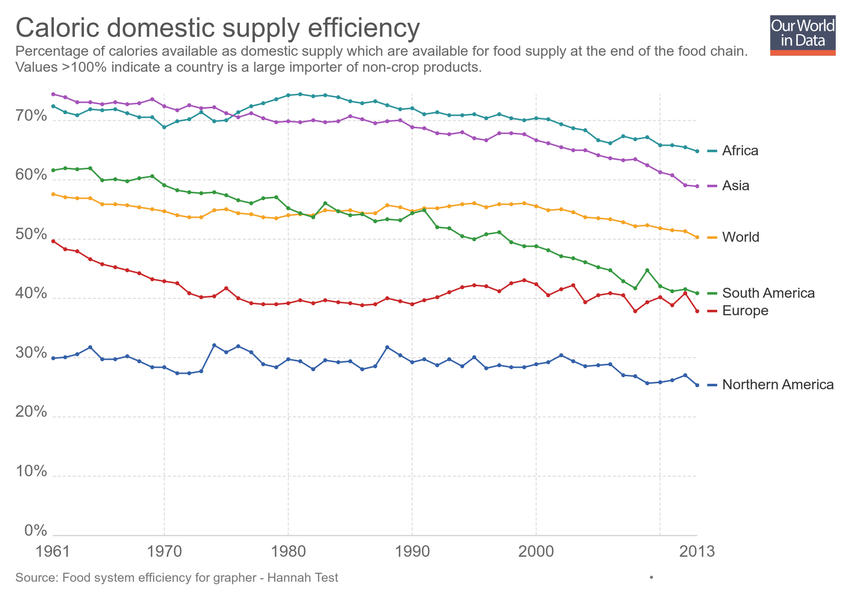
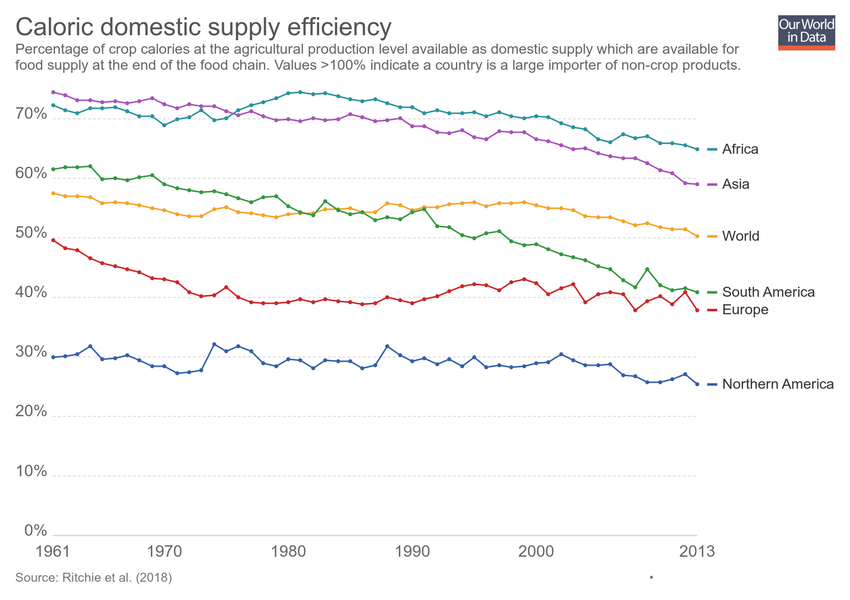
Updating chart caloric-domestic-supply-efficiency

diff --git a/grapher/caloric-domestic-supply-efficiency.html b/grapher/caloric-domestic-supply-efficiency.html
@@ -1,4 +1,4 @@
-<!doctype html><html><head><meta name="viewport" content="width=device-width, initial-scale=1" /><title>Caloric domestic supply efficiency - Our World in Data</title><meta name="description" content="Percentage of calories available as domestic supply which are available for food supply at the end of the food chain. Values &gt;100% indicate a country is a large importer of non-crop products." /><link rel="canonical" href="https://ourworldindata.org/grapher/caloric-domestic-supply-efficiency" /><meta property="fb:app_id" content="1149943818390250" /><meta property="og:url" content="https://ourworldindata.org/grapher/caloric-domestic-supply-efficiency" /><meta property="og:title" content="Caloric domestic supply efficiency" /><meta property="og:description" content="Percentage of calories available as domestic supply which are available for food supply at the end of the food chain. Values &gt;100% indicate a country is a large importer of non-crop products." /><meta property="og:image" content="https://ourworldindata.org/grapher/exports/caloric-domestic-supply-efficiency.png?v=1" /><meta property="og:image:width" content="850" /><meta property="og:image:height" content="600" /><meta property="og:site_name" content="Our World in Data" /><meta name="twitter:card" content="summary_large_image" /><meta name="twitter:site" content="@OurWorldInData" /><meta name="twitter:creator" content="@OurWorldInData" /><meta name="twitter:title" content="Caloric domestic supply efficiency" /><meta name="twitter:description" content="Percentage of calories available as domestic supply which are available for food supply at the end of the food chain. Values &gt;100% indicate a country is a large importer of non-crop products." /><meta name="twitter:image" content="https://ourworldindata.org/grapher/exports/caloric-domestic-supply-efficiency.png?v=1" /><style>
+<!doctype html><html><head><meta name="viewport" content="width=device-width, initial-scale=1" /><title>Caloric domestic supply efficiency - Our World in Data</title><meta name="description" content="Percentage of crop calories at the agricultural production level available as domestic supply which are available for food supply at the end of the food chain. Values &gt;100% indicate a country is a large importer of non-crop products." /><link rel="canonical" href="https://ourworldindata.org/grapher/caloric-domestic-supply-efficiency" /><meta property="fb:app_id" content="1149943818390250" /><meta property="og:url" content="https://ourworldindata.org/grapher/caloric-domestic-supply-efficiency" /><meta property="og:title" content="Caloric domestic supply efficiency" /><meta property="og:description" content="Percentage of crop calories at the agricultural production level available as domestic supply which are available for food supply at the end of the food chain. Values &gt;100% indicate a country is a large importer of non-crop products." /><meta property="og:image" content="https://ourworldindata.org/grapher/exports/caloric-domestic-supply-efficiency.png?v=2" /><meta property="og:image:width" content="850" /><meta property="og:image:height" content="600" /><meta property="og:site_name" content="Our World in Data" /><meta name="twitter:card" content="summary_large_image" /><meta name="twitter:site" content="@OurWorldInData" /><meta name="twitter:creator" content="@OurWorldInData" /><meta name="twitter:title" content="Caloric domestic supply efficiency" /><meta name="twitter:description" content="Percentage of crop calories at the agricultural production level available as domestic supply which are available for food supply at the end of the food chain. Values &gt;100% indicate a country is a large importer of non-crop products." /><meta name="twitter:image" content="https://ourworldindata.org/grapher/exports/caloric-domestic-supply-efficiency.png?v=2" /><style>
         html, body {
             height: 100%;
             margin: 0;
@@ -20,8 +20,8 @@
         }
     </style><noscript><style>
                     figure { display: none !important; }
-                </style></noscript><link rel="stylesheet" href="https://ourworldindata.org/grapher/assets/commons.bundle.019a92548339820130b6.css" /><link rel="preload" href="/grapher/data/variables/42574.json?v=1" as="fetch" crossorigin /></head><body class="singleChart"><figure data-grapher-src="/grapher/caloric-domestic-supply-efficiency"></figure><noscript id="fallback"><img src="/grapher/exports/caloric-domestic-supply-efficiency.svg" /><p>Interactive visualization requires JavaScript</p></noscript><script src="https://cdn.polyfill.io/v2/polyfill.min.js?features=es6,fetch"></script><script src="https://ourworldindata.org/grapher/assets/commons.bundle.019a92548339820130b6.js"></script><script src="https://ourworldindata.org/grapher/assets/charts.bundle.dcf65b68eddaba4c6a58.js"></script><script>
-        var jsonConfig = {"id":1429,"map":{"projection":"World","targetYear":2013,"variableId":42574,"legendStepSize":20,"baseColorScheme":"PuBu","isManualBuckets":true,"colorSchemeLabels":[],"colorSchemeValues":[10,20,30,40,50,60,70,80,90,100,170],"defaultProjection":"World","colorSchemeMinValue":0,"customNumericColors":[],"customCategoryColors":{},"customCategoryLabels":{},"customHiddenCategories":{}},"tab":"chart","slug":"caloric-domestic-supply-efficiency","type":"LineChart","title":"Caloric domestic supply efficiency","xAxis":{"scaleType":"linear"},"yAxis":{"min":0,"scaleType":"linear"},"version":1,"subtitle":"Percentage of calories available as domestic supply which are available for food supply at the end of the food chain. Values >100% indicate a country is a large importer of non-crop products.","hasMapTab":true,"originUrl":"","stackMode":"absolute","dimensions":[{"id":9171,"order":0,"chartId":1429,"display":{"shortUnit":"%"},"property":"y","targetYear":null,"variableId":42574}],"isAutoSlug":true,"hasChartTab":true,"isPublished":true,"selectedData":[{"index":0,"entityId":273},{"index":0,"entityId":275},{"index":0,"entityId":276},{"index":0,"entityId":355},{"index":0,"entityId":450},{"index":0,"entityId":295}],"internalNotes":"TEST FOR HANNAH - Please don't share","addCountryMode":"add-country"};
+                </style></noscript><link rel="stylesheet" href="https://ourworldindata.org/grapher/assets/commons.bundle.019a92548339820130b6.css" /><link rel="preload" href="/grapher/data/variables/42574.json?v=2" as="fetch" crossorigin /></head><body class="singleChart"><figure data-grapher-src="/grapher/caloric-domestic-supply-efficiency"></figure><noscript id="fallback"><img src="/grapher/exports/caloric-domestic-supply-efficiency.svg" /><p>Interactive visualization requires JavaScript</p></noscript><script src="https://cdn.polyfill.io/v2/polyfill.min.js?features=es6,fetch"></script><script src="https://ourworldindata.org/grapher/assets/commons.bundle.019a92548339820130b6.js"></script><script src="https://ourworldindata.org/grapher/assets/charts.bundle.dcf65b68eddaba4c6a58.js"></script><script>
+        var jsonConfig = {"id":1429,"map":{"projection":"World","targetYear":2013,"variableId":42574,"baseColorScheme":"PuBu","isManualBuckets":true,"colorSchemeLabels":[],"colorSchemeValues":[10,20,30,40,50,60,70,80,90,100,170],"colorSchemeMinValue":0,"customNumericColors":[],"customCategoryColors":{},"customCategoryLabels":{},"customHiddenCategories":{}},"tab":"chart","slug":"caloric-domestic-supply-efficiency","type":"LineChart","title":"Caloric domestic supply efficiency","xAxis":{"scaleType":"linear"},"yAxis":{"min":0,"scaleType":"linear"},"version":2,"subtitle":"Percentage of crop calories at the agricultural production level available as domestic supply which are available for food supply at the end of the food chain. Values >100% indicate a country is a large importer of non-crop products.","hasMapTab":true,"originUrl":"","stackMode":"absolute","dimensions":[{"display":{"shortUnit":"%"},"property":"y","variableId":42574}],"sourceDesc":"Ritchie et al. (2018)","hasChartTab":true,"isPublished":true,"selectedData":[{"index":0,"entityId":273},{"index":0,"entityId":275},{"index":0,"entityId":276},{"index":0,"entityId":355},{"index":0,"entityId":450},{"index":0,"entityId":295}],"internalNotes":"TEST FOR HANNAH - Please don't share","addCountryMode":"add-country"};
         var figure = document.getElementsByTagName("figure")[0];
         try {
             window.App = {};
